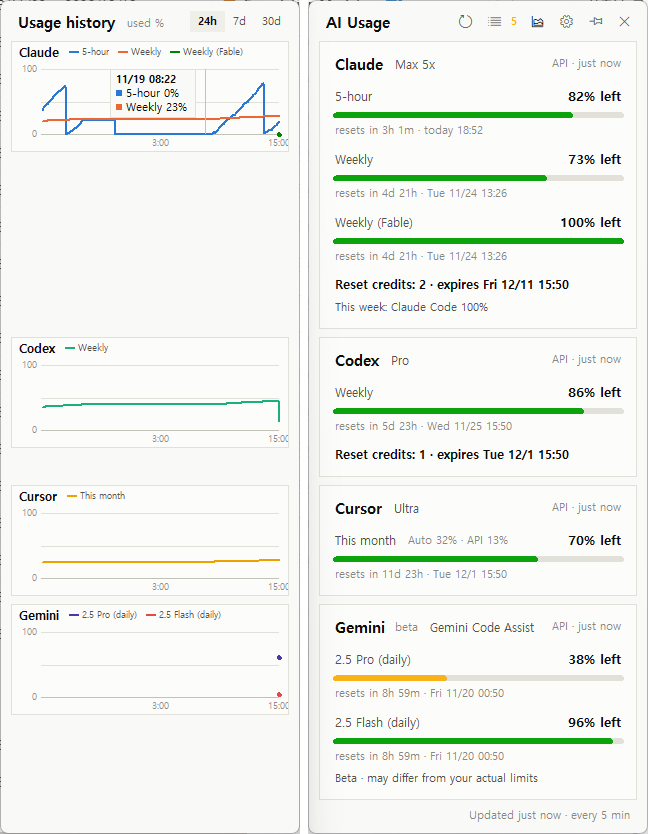
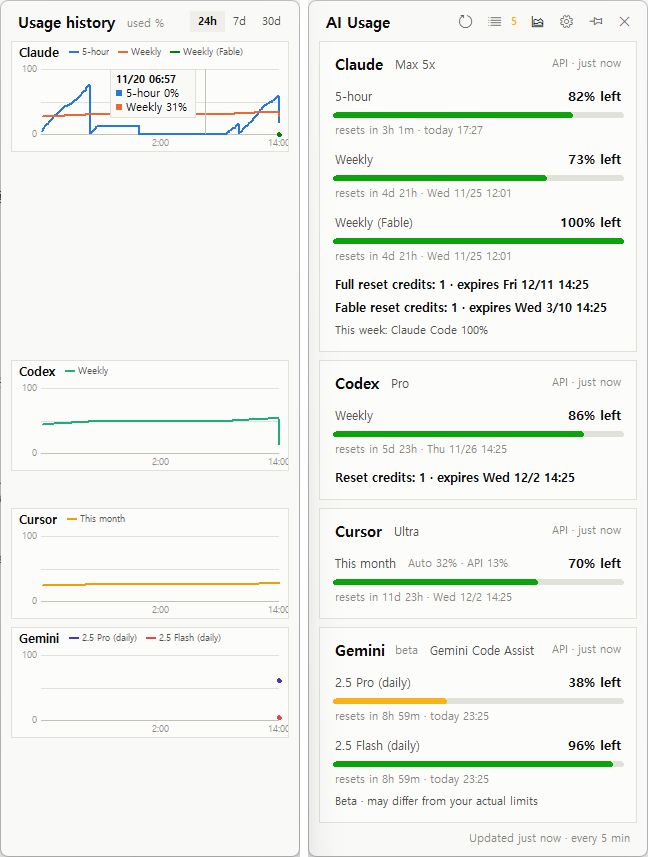
Show Claude reset credits by kind
Claude grants can differ (e.g. a full reset and a Fable launch reset with
different end dates). The card now shows one line per kind with its own
count and end date ("Full reset credits: 1 · expires ...", "Fable reset
credits: 1 · expires ..."); a single kind keeps the one-line form. The
kind is the model named in the grant's label (from the account's scoped
limits), else Full (clears 5-hour and weekly) or 5-hour.

Notifications still use the total count. Screenshots refreshed.

diff --git a/agent_usage/app.py b/agent_usage/app.py
@@ -610,7 +610,7 @@ class Popup:
             card = {"id": pid, "title": mod.TITLE, "tag": t("experimental") if mod.EXPERIMENTAL else "",
                     "plan": (shown.plan or "") if shown else "",
                     "meta": f"{good.source} · {fmt.ago(good.data_at)}" if good else "",
-                    "loading": latest is None, "rows": [], "reset": None, "extras": [],
+                    "loading": latest is None, "rows": [], "reset": [], "extras": [],
                     "problem": None, "hint": "", "login": ""}
             if good:
                 for w in good.windows:
@@ -623,9 +623,13 @@ class Popup:
                                          "color": theme.STATUS[theme.level(r, threshold)], "when": when})
                 rc = good.reset_credits
                 if rc is not None:
-                    card["reset"] = ((t("rc_count", n=rc.count)
-                                      + (t("rc_expires", clock=fmt.clock(rc.expires_at)) if rc.expires_at else ""), True)
-                                     if rc.count else (t("rc_none"), False))
+                    expires = lambda ts: t("rc_expires", clock=fmt.clock(ts)) if ts else ""
+                    if not rc.count:
+                        card["reset"] = [(t("rc_none"), False)]
+                    elif len(rc.kinds) > 1:         # 종류가 여럿이면 한 줄씩 (예: 전체 1개, Fable 1개)
+                        card["reset"] = [(t("rc_kind_count", kind=k, n=n) + expires(end), True) for k, n, end in rc.kinds]
+                    else:
+                        card["reset"] = [(t("rc_count", n=rc.count) + expires(rc.expires_at), True)]
                 card["extras"] = list(good.extra)
             if latest and latest.error:
                 card["problem"] = latest.error + (t("last_success", ago=fmt.ago(good.data_at)) if good else "")
@@ -645,7 +649,7 @@ class Popup:
         return (self.pinned, i18n.lang(), tuple(
             (c["id"], c["loading"], bool(c["plan"]), bool(c["meta"]),
              tuple((r["key"], bool(r["note"]), bool(r["when"])) for r in c["rows"]),
-             c["reset"][1] if c["reset"] else None, len(c["extras"]), c["problem"] is not None, bool(c["hint"]),
+             tuple(bold for _, bold in c["reset"]), len(c["extras"]), c["problem"] is not None, bool(c["hint"]),
              bool(c["login"]))
             for c in m["cards"]))
 
@@ -773,10 +777,11 @@ class Popup:
             return refs
         for row in c["rows"]:
             refs["rows"][row["key"]] = self._build_row(inner, row)
-        if c["reset"]:
-            text, bold = c["reset"]
-            refs["reset"] = self._label(inner, text, 9, "text" if bold else "muted", bold=bold)
-            refs["reset"].pack(anchor="w", pady=(px(8), 0))
+        refs["reset"] = []
+        for i, (text, bold) in enumerate(c["reset"]):
+            lbl = self._label(inner, text, 9, "text" if bold else "muted", bold=bold)
+            lbl.pack(anchor="w", pady=(px(2) if i else px(8), 0))
+            refs["reset"].append(lbl)
         for line in c["extras"]:
             lbl = self._label(inner, line, 8, "text2", wraplength=px(self.WIDTH - 60), justify="left")
             lbl.pack(anchor="w", pady=(px(3), 0))
@@ -864,8 +869,8 @@ class Popup:
                 if r["bar"].value != value:
                     r["bar"].value = value
                     self._draw_bar(r["bar"])
-            if c["reset"]:
-                self._set(refs.get("reset"), c["reset"][0])
+            for lbl, (text, _) in zip(refs.get("reset", []), c["reset"]):
+                self._set(lbl, text)
             for label, text in zip(refs["extras"], c["extras"]):
                 self._set(label, text)
             if c["problem"] is not None:

diff --git a/agent_usage/providers/claude.py b/agent_usage/providers/claude.py
@@ -196,7 +196,9 @@ def parse(usage: Usage, d: dict) -> None:
         usage.extra.append(t("week_breakdown",
                              rows=" · ".join(f"{r['display_name']} {r['percent']:.0f}%" for r in rows)))
 
-    usage.reset_credits = _reset_credits(d.get("cedar_ember"))
+    models = [((lim.get("scope") or {}).get("model") or {}).get("display_name")
+              for lim in d.get("limits") or [] if isinstance(lim, dict)]
+    usage.reset_credits = _reset_credits(d.get("cedar_ember"), [m for m in models if isinstance(m, str) and m])
 
 
 def _parse_limits(usage: Usage, limits: list) -> None:
@@ -239,16 +241,39 @@ def _parse_legacy(usage: Usage, d: dict) -> None:
     usage.windows.sort(key=lambda w: ORDER.index(w.key) if w.key in ORDER else len(ORDER))
 
 
-def _reset_credits(ce) -> ResetCredits | None:
-    """재설정권(cedar_ember): 받은 재설정권들의 남은 횟수 합과 가장 먼저 끝나는 날.
+def _reset_credits(ce, models=()) -> ResetCredits | None:
+    """재설정권(cedar_ember): 남은 횟수 합, 가장 먼저 끝나는 날, 종류별(전체·Fable 등) 개수와 소멸 시각.
 
     서버가 이 계정·요청을 대상으로 보지 않으면(eligible이 아님) 줄 자체를 보여 주지 않는다.
     """
     if not isinstance(ce, dict) or ce.get("eligible") is not True:
         return None
-    left = [(as_number(g.get("resets_left")), epoch(g.get("ends_at")))
-            for g in ce.get("grants") or [] if isinstance(g, dict)]
     now = time.time()
-    left = [(n, end) for n, end in left if n and n > 0 and (end is None or end > now)]   # 이미 끝난 것은 빼고
-    ends = [end for _, end in left if end]
-    return ResetCredits(int(sum(n for n, _ in left)), min(ends) if ends else None)
+    kinds: dict[str, list] = {}                 # 이름 → [개수, 가장 먼저 끝나는 날] (받은 순서대로)
+    for g in ce.get("grants") or []:
+        if not isinstance(g, dict):
+            continue
+        n, end = as_number(g.get("resets_left")), epoch(g.get("ends_at"))
+        if not n or n <= 0 or (end is not None and end <= now):     # 다 썼거나 이미 끝난 것은 빼고
+            continue
+        kind = kinds.setdefault(_grant_kind(g, models), [0, None])
+        kind[0] += int(n)
+        if end and (kind[1] is None or end < kind[1]):
+            kind[1] = end
+    ends = [end for _, end in kinds.values() if end]
+    return ResetCredits(sum(n for n, _ in kinds.values()), min(ends) if ends else None,
+                        [(name, n, end) for name, (n, end) in kinds.items()])
+
+
+def _grant_kind(g: dict, models) -> str:
+    """재설정권 종류 이름: 이름에 모델명(Fable 등)이 있으면 그 모델, 5시간·주간을 모두 비우면 '전체', 5시간만이면 '5시간'."""
+    label = str(g.get("label") or "").lower()
+    for model in models:
+        if model.lower() in label:
+            return model
+    clears = g.get("clears") if isinstance(g.get("clears"), list) else []
+    if "five_hour" in clears and "seven_day" in clears:
+        return t("rc_kind_full")
+    if "five_hour" in clears:
+        return t("rc_kind_5h")
+    return t("rc_kind_other")

diff --git a/tests/test_usage.py b/tests/test_usage.py
@@ -261,6 +261,26 @@ class ParseTest(unittest.TestCase):
         self.assertEqual(rc.count, 2)
         self.assertEqual(round(rc.expires_at), round(claude.epoch(day(21))))
 
+    def test_claude_reset_credits_by_kind(self):
+        from datetime import datetime, timezone
+        day = lambda n: datetime.fromtimestamp(time.time() + n * 86400, timezone.utc).isoformat()
+        u = Usage("claude", "Claude")
+        claude.parse(u, {"limits": [{"kind": "session", "percent": 10, "resets_at": None},
+                                    {"kind": "weekly_scoped", "percent": 0, "resets_at": None,
+                                     "scope": {"model": {"display_name": "Fable"}}}],
+                         "cedar_ember": {"eligible": True, "grants": [
+                             {"label": "One full limit reset", "resets_left": 1, "ends_at": day(21),
+                              "clears": ["five_hour", "seven_day"]},
+                             {"label": "New model launch: one Fable reset", "resets_left": 1, "ends_at": day(110),
+                              "clears": ["five_hour"]},
+                             {"label": "Another full reset", "resets_left": 2, "ends_at": day(30),
+                              "clears": ["five_hour", "seven_day"]}]}})
+        rc = u.reset_credits
+        self.assertEqual(rc.count, 4)
+        self.assertEqual([(k, n) for k, n, _ in rc.kinds], [(i18n.t("rc_kind_full"), 3), ("Fable", 1)])
+        self.assertEqual(round(rc.kinds[0][2]), round(claude.epoch(day(21))))          # 같은 종류는 빠른 소멸일
+        self.assertEqual(round(rc.expires_at), round(claude.epoch(day(21))))
+
     def test_claude_reset_credits_none_left_and_not_eligible(self):
         self.assertEqual(self.claude_credits({"eligible": True, "grants": []}).count, 0)
         self.assertIsNone(self.claude_credits({"eligible": False, "ineligible_reason": "surface", "grants": []}))

diff --git a/agent_usage/i18n.py b/agent_usage/i18n.py
@@ -27,6 +27,7 @@ KO = {
     "ago_now": "방금", "ago_m": "{m}분 전", "ago_h": "{h}시간 전",
     # 재설정권·부가 정보
     "rc_count": "재설정권 {n}개", "rc_expires": " · {clock} 소멸", "rc_none": "재설정권 없음",
+    "rc_kind_count": "{kind} 재설정권 {n}개", "rc_kind_full": "전체", "rc_kind_5h": "5시간", "rc_kind_other": "기타",
     "extra_usage": "추가 사용: ${used}", "extra_usage_limit": "추가 사용: ${used} / ${limit}",
     "week_breakdown": "이번 주 사용처: {rows}",
     "credits_unlimited": "크레딧: 무제한", "credits_balance": "크레딧 잔액: {b}", "limit_reached": "현재 한도 도달",
@@ -110,6 +111,7 @@ EN = {
     "today": "today {hm}", "date": "{wd} {m}/{d} {hm}", "weekdays": ["Mon", "Tue", "Wed", "Thu", "Fri", "Sat", "Sun"],
     "ago_now": "just now", "ago_m": "{m}m ago", "ago_h": "{h}h ago",
     "rc_count": "Reset credits: {n}", "rc_expires": " · expires {clock}", "rc_none": "No reset credits",
+    "rc_kind_count": "{kind} reset credits: {n}", "rc_kind_full": "Full", "rc_kind_5h": "5-hour", "rc_kind_other": "Other",
     "extra_usage": "Extra usage: ${used}", "extra_usage_limit": "Extra usage: ${used} / ${limit}",
     "week_breakdown": "This week: {rows}",
     "credits_unlimited": "Credits: unlimited", "credits_balance": "Credit balance: {b}", "limit_reached": "Limit reached",

diff --git a/tools/snapshot.py b/tools/snapshot.py
@@ -40,7 +40,8 @@ def fake_usages(ids, opts):
             Window("five_hour", t("w_5h"), 18, now + 3 * 3600 + 120),
             Window("seven_day", t("w_week"), 27, now + 4.9 * 86400),
             Window("seven_day_fable", t("w_week_scoped", name="Fable"), 0, now + 4.9 * 86400)],
-            reset_credits=ResetCredits(2, now + 22 * 86400),
+            reset_credits=ResetCredits(2, now + 21 * 86400, [(t("rc_kind_full"), 1, now + 21 * 86400),
+                                                            ("Fable", 1, now + 110 * 86400)]),
             extra=[t("week_breakdown", rows="Claude Code 100%")], source="API"),
         "codex": Usage("codex", "Codex", "Pro", [Window("weekly", t("w_week"), 14, now + 6 * 86400)],
                        reset_credits=ResetCredits(1, now + 12 * 86400), source="API"),

diff --git a/agent_usage/models.py b/agent_usage/models.py
@@ -31,6 +31,7 @@ class ResetCredits:
     """사용량 재설정권."""
     count: int
     expires_at: float | None = None   # 가장 먼저 소멸하는 시각
+    kinds: list[tuple[str, int, float | None]] = field(default_factory=list)   # 종류별 (이름, 개수, 가장 먼저 소멸하는 시각)
 
 
 @dataclass
